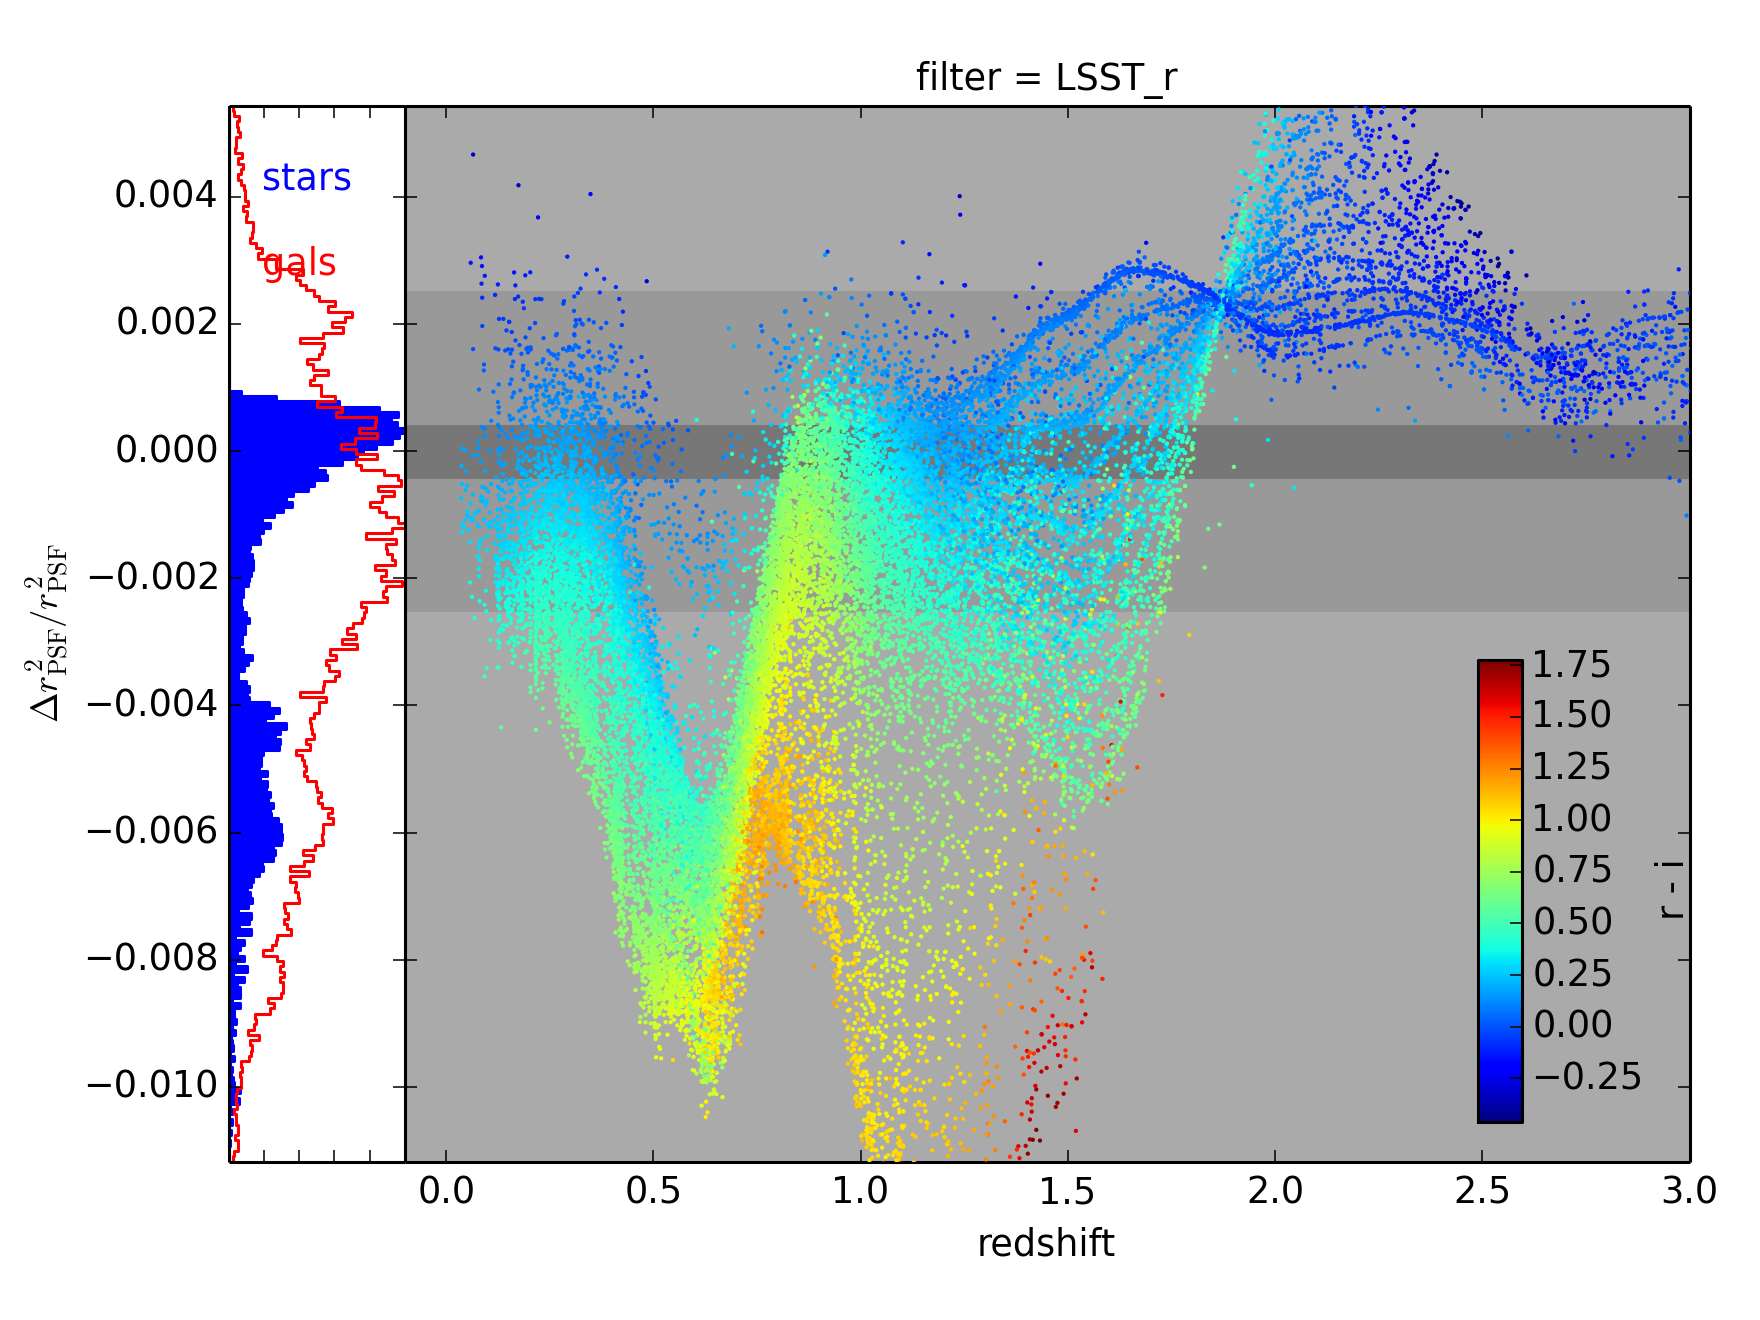
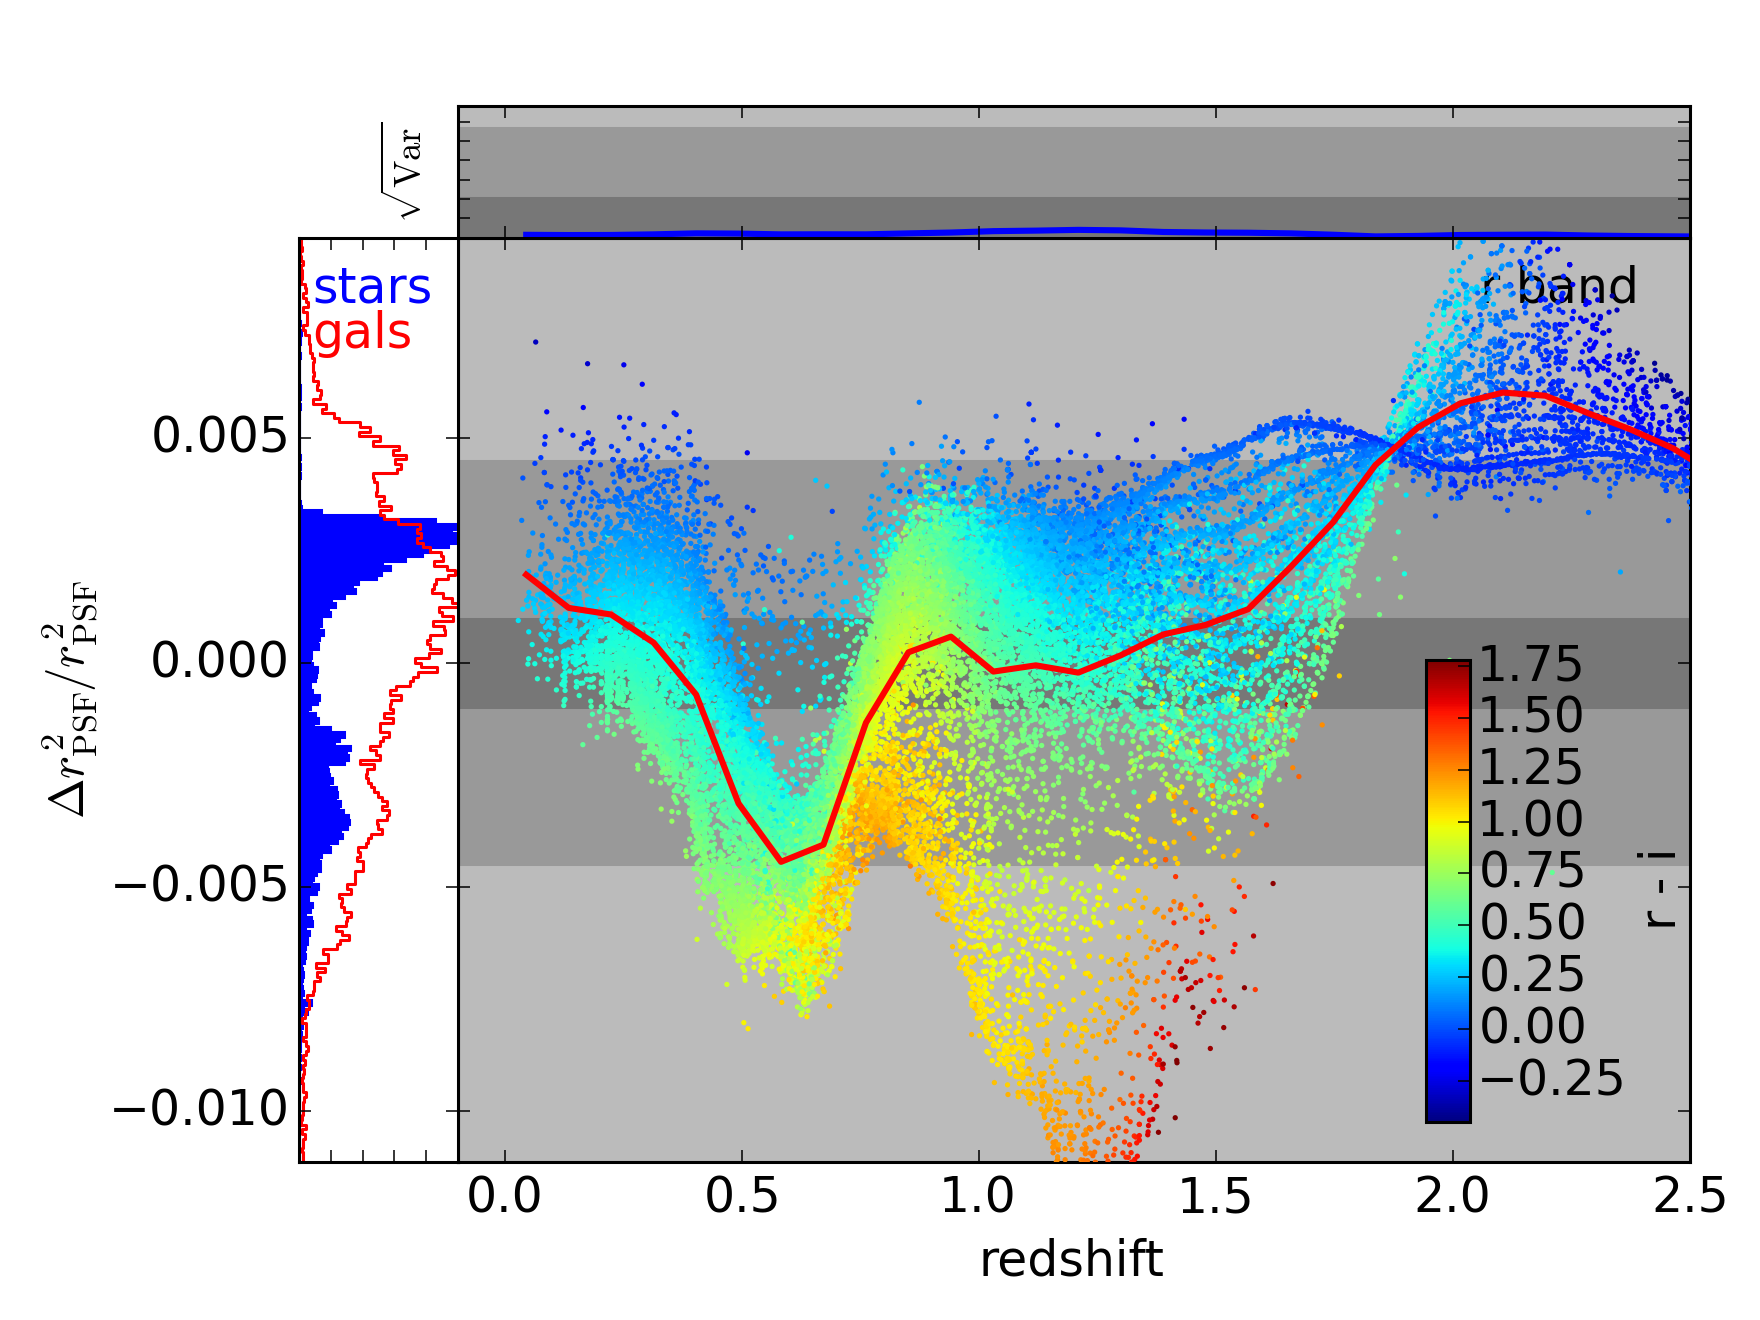
update catalog page

diff --git a/results/catalog.md b/results/catalog.md
@@ -37,16 +37,18 @@ output/galaxy_catalog.dat
 output/star_catalog.dat
 {% endhighlight %}
 
+Note that access to the LSST CatSim database now requires your IP address to be on a white list.
+
 Let's take a look at the galaxy catalog file
 
 {% highlight bash %}
 $ head -n 3 output/galaxy_catalog.dat
-galtileid, objectId, raJ2000, decJ2000, redshift, u_ab, g_ab, r_ab, i_ab, z_ab, y_ab, sedPathBulge, sedPathDisk, sedPathAgn, magNormBulge, magNormDisk, magNormAgn, internalAvBulge, internalRvBulge, internalAvDisk, internalRvDisk
-222403644576, 222403644576, 199.44443756, -10.60410519, 0.61963493, 26.20507431, 26.12331772, 25.60255432, 25.20387077, 25.12633514, 25.05166245, None, galaxySED/Const.20E09.02Z.spec.gz, None, nan, 25.57798004, nan, 0.00000000, 3.09999990, 0.10000000, 3.09999990
-222402644496, 222402644496, 199.44398768, -10.60823399, 0.41881949, 28.69147873, 26.64548302, 25.21138763, 24.58403778, 24.24159241, 24.04888725, None, galaxySED/Inst.50E09.02Z.spec.gz, None, nan, 24.80845070, nan, 0.00000000, 3.09999990, 0.30000001, 3.09999990
+galtileid, objectId, raJ2000, decJ2000, redshift, u_ab, g_ab, r_ab, i_ab, z_ab, y_ab, sedPathBulge, sedPathDisk, sedPathAgn, magNormBulge, magNormDisk, magNormAgn, internalAvBulge, internalRvBulge, internalAvDisk, internalRvDisk, glon, glat, EBV
+222500350435, 222500350435, 199.56648010, -9.28911042, 0.87100780, 24.72078514, 24.37876129, 23.35155296, 22.37948418, 21.74126053, 21.46795082, galaxySED/Burst.32E09.02Z.spec.gz, galaxySED/Exp.40E09.04Z.spec.gz, None, 25.08109093, 21.86528015, nan, 0.30000001, 3.09999990, 0.40000001, 3.09999990, 5.47990054, 0.92513679, 0.03601249
+222501392641, 222501392641, 199.57937323, -9.29996667, 0.70250392, 26.08153725, 25.31512642, 24.57574654, 23.79152298, 23.51052094, 23.27629852, galaxySED/Inst.50E09.04Z.spec.gz, galaxySED/Const.50E09.04Z.spec.gz, None, 26.84174919, 23.30666924, nan, 0.10000000, 3.09999990, 0.80000001, 3.09999990, 5.48020956, 0.92491178, 0.03617451
 {% endhighlight %}
 
-The first line shows the names of each database column requested in `make_catalogs.py`, and each subsequent line holds one the entries for one galaxy.  The columns are:
+The first line shows the names of each database column requested in `make_catalogs.py`, and each subsequent line holds the values for one galaxy.  The columns are:
 
 - galtileid, objectID : These keep track of which galaxy we're looking at
 - raJ2000, decJ2000, redshift : Where the galaxy is located (in 3D)
@@ -55,6 +57,7 @@ The first line shows the names of each database column requested in `make_catalo
 - magNormBulge : The AB magnitude of the bulge component at 500nm rest-frame
 - internalAvBulge, internalRvBulge : The rest frame reddening of the bulge component
 - similar params for the disk component and possible AGN component
+- galactic latitude and longitude and Milky Way dust E(B-V)
 
 The stellar catalog has similar entries, although somewhat simpler since the stars are single
 component.
@@ -128,21 +131,21 @@ Notice that the default input files: `output/corrected_galaxy_data.pkl` and
 `output/corrected_star_data.pkl` don't exist yet.  This is because these are the files that will
 be created under the machine learning corrections step on the next page.  For now we can use the
 uncorrected catalog files by adding them manually as command line arguments.  For instance, to make
-a plot of the centroid shift bias in the _r_ band due to DCR, use:
+a plot of the squared centroid shift bias with a logarithmic axis in the _r_ band due to DCR, use:
 
 {% highlight bash %}
-$ python plot_bias.py Rbar --galfile output/galaxy_data.pkl \
-                           --starfile output/star_data.pkl  \
-                           --outfile output/dRbar.LSST_r.png
+$ python plot_bias.py LnRbarSqr --galfile output/galaxy_data.pkl \
+                                --starfile output/star_data.pkl  \
+                                --outfile output/dLnRbarSqr.LSST_r.png
 {% endhighlight %}
 
-<img src="{{site.url}}/img/dRbar.LSST_r.png" width="650">
+<img src="{{site.url}}/img/dLnRbarSqr.LSST_r.png" width="650">
 
 Each point of the scatter plot is one galaxy from the catalog.  The points are colored by their
-_r_ - _i_ color, which as we showed in the previous page is correlated with the centroid shift.  The
-histograms on the left show the distributions of centroid shifts for stars in blue, and the galaxies
-projected along the redshift axis in red.  The dark horizontal bars again show the requirements for
-DES and LSST.
+$$r$$ - $$i$$ color, with both very blue and very red objects having large squared centroid shifts.
+The histograms on the left show the distributions of squared centroid shifts for stars in blue, and
+the galaxies projected along the redshift axis in red.  The dark horizontal bars again show the
+requirements for DES and LSST.
 
 To quickly plot a number of interesting plots, we can use `plot_bias.py` with the option
  `--nominal_plots`.
@@ -161,9 +164,9 @@ Here are a few of the more interesting cases.
 The last plot here, for the Euclid telescope, is slightly misleading since we generated a catalog
 appropriate for LSST, and Euclid will be a much shallower survey.  However, the peak of the
 Euclid chromatic PSF bias is around redshift 1.0, where Euclid will still be quite sensitive.  Also
-notice that the symbol colors for this plot represent *LSST* _r_ - _i_ color.  The proposed Euclid
+notice that the symbol colors for this plot represent *LSST* $$r$$ - $$i$$ color.  The proposed Euclid
 footprint will overlap the LSST footprint by about 5000 square degrees.
 
-Notice also that while chromatic biases are clearly correlated with _r_ - _i_, they aren't perfectly
-correlated.  That is, for a given chromatic bias, or horizontal cut across the above scatter plots,
-more than one _r_ - _i_ color, or symbol color, occurs.
+Notice also that while chromatic biases are clearly correlated with $$r$$ - $$i$$, they aren't
+perfectly correlated.  That is, for a given chromatic bias, or horizontal cut across the above
+scatter plots, more than one $$r$$ - $$i$$ color, or symbol color, occurs.
